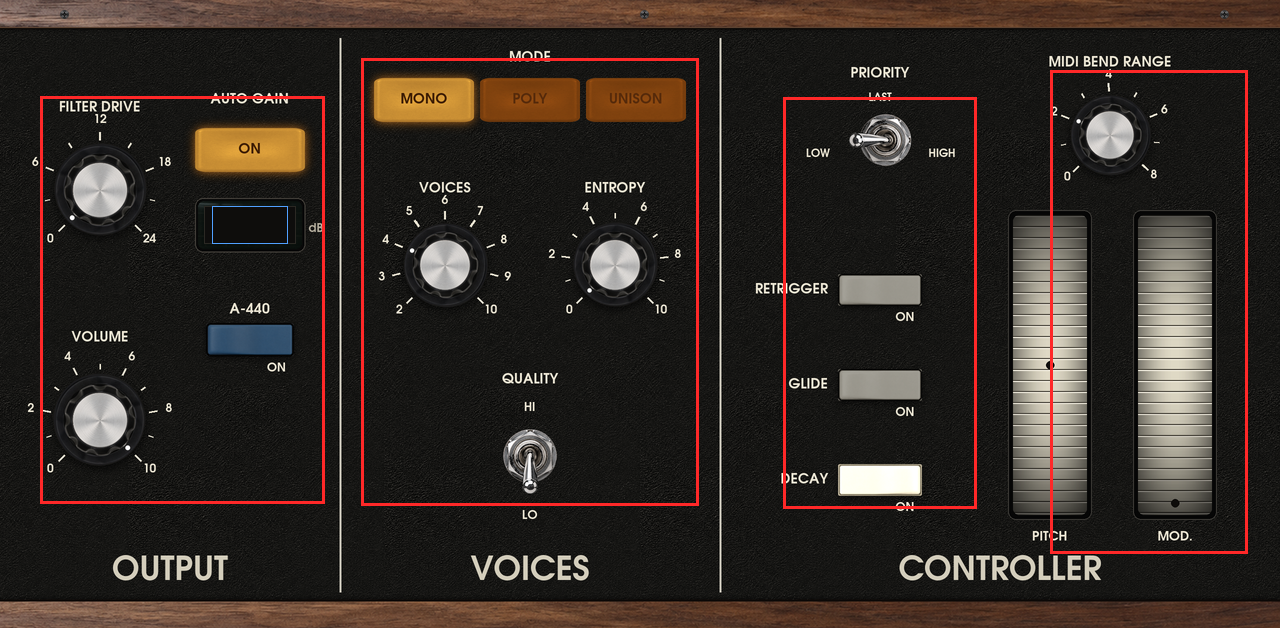
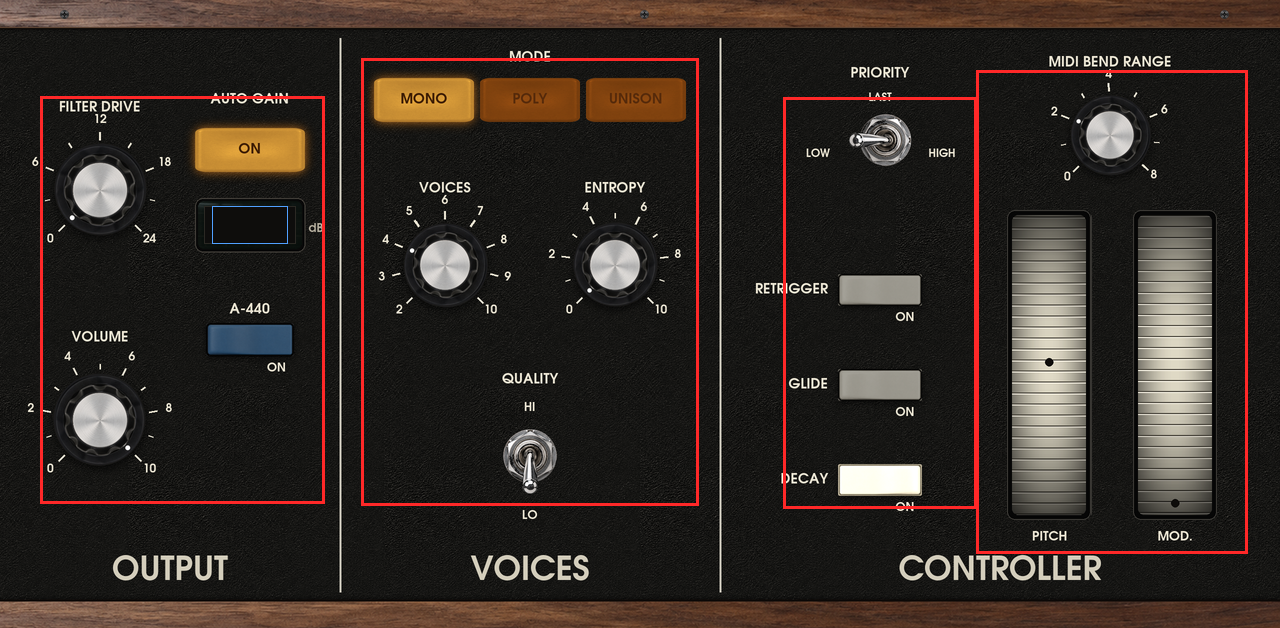
QUALITY HI by default on Gen2, presets leave QUALITY alone, a working pitch wheel
- arm64 builds start a new instance in HI (arm32 stays LO: HI is 30-55 % of a Force core).
- Factory presets no longer carry quality; a user preset is applied without its quality. A project keeps its own.
- pitch_wheel (param 118, appended): the OUTPUT tab's painted PITCH wheel gets a control (the MOD wheel's strip),
  sent to the engine as MIDI pitch bend (BEND RANGE applies); in the CONTROLLER Q-Link block.
- Tests: presets keep QUALITY, the wheel bends a fifth at range 7 and back.

Claude-Session: https://claude.ai/code/session_01CpoP2t6TVex9TxHmjqFgb6

Changed region(s): [[0.7812, 0.3328, 0.875, 0.8471], [0.75, 0.0908, 0.8125, 0.121], [0.7812, 0.8774, 0.8125, 0.9076]]

diff --git a/src/presets_gen.h b/src/presets_gen.h
@@ -2,24 +2,24 @@
 #pragma once
 struct FactoryPreset { const char *name, *state; };
 static const FactoryPreset g_factory[] = {
-    {"Felt Bass", "quality=0;mode=0;voices=4;entropy=0;tune=0;glide=0;mod_mix=0;osc_mod=0;osc3_control=1;osc1_range=2;osc1_waveform=2;osc2_range=2;osc2_frequency=0.09996;osc2_waveform=2;osc3_range=3;osc3_frequency=0;osc3_waveform=2;osc1_on=1;osc1_volume=8;ext_on=0;ext_volume=5;osc2_on=1;osc2_volume=8;noise_on=0;noise_volume=8;noise_type=0;osc3_on=0;osc3_volume=8;filter_mode=0;filter_mod=0;keyboard_control_1=1;keyboard_control_2=0;cutoff=-2.0;emphasis=3.5;contour_amount=3.5;filter_attack=0;filter_decay=3.5;filter_sustain=2.5;loudness_attack=0;loudness_decay=3.0;loudness_sustain=8;volume=10;main_output=1;a440=0;glide_on=0;decay_on=1;mod_wheel=0;midi_bend_range=2;feedback=0;drive=0;level=2.57;auto_gain=1;spread=0;inner=0;double=20;played_as=0;placement=0;bass_comp=0;patch=0;note_priority=0;retrigger=0"},
-    {"Saw Monolith", "quality=0;mode=0;voices=4;entropy=0;tune=0;glide=0;mod_mix=0;osc_mod=0;osc3_control=1;osc1_range=1;osc1_waveform=2;osc2_range=2;osc2_frequency=0.0312;osc2_waveform=2;osc3_range=2;osc3_frequency=-0.062646;osc3_waveform=2;osc1_on=1;osc1_volume=10;ext_on=0;ext_volume=8;osc2_on=1;osc2_volume=10;noise_on=0;noise_volume=8;noise_type=0;osc3_on=1;osc3_volume=10;filter_mode=0;filter_mod=1;keyboard_control_1=1;keyboard_control_2=1;cutoff=-2;emphasis=5;contour_amount=3.5;filter_attack=0;filter_decay=2.7;filter_sustain=0;loudness_attack=0;loudness_decay=4;loudness_sustain=5;volume=10;main_output=1;a440=0;glide_on=0;decay_on=1;mod_wheel=0.15;midi_bend_range=2;feedback=0;drive=0;level=2.41;auto_gain=1;spread=0;inner=0;double=20;played_as=0;placement=0;bass_comp=0;patch=0;note_priority=0;retrigger=0"},
-    {"Feedback Funk", "quality=0;mode=0;voices=4;entropy=0;tune=0;glide=1;mod_mix=10;osc_mod=1;osc3_control=1;osc1_range=5;osc1_waveform=5;osc2_range=2;osc2_frequency=0.0312;osc2_waveform=5;osc3_range=2;osc3_frequency=-0.062646;osc3_waveform=2;osc1_on=1;osc1_volume=5;ext_on=1;ext_volume=4.2;osc2_on=1;osc2_volume=9;noise_on=0;noise_volume=8;noise_type=0;osc3_on=1;osc3_volume=10;filter_mode=0;filter_mod=1;keyboard_control_1=0;keyboard_control_2=1;cutoff=-4;emphasis=7;contour_amount=6;filter_attack=0;filter_decay=2;filter_sustain=4;loudness_attack=0;loudness_decay=5;loudness_sustain=10;volume=8.711;main_output=1;a440=0;glide_on=1;decay_on=0;mod_wheel=0;midi_bend_range=2;feedback=5;drive=0;level=0;auto_gain=1;spread=0;inner=0;double=20;played_as=0;placement=0;bass_comp=0;patch=1;note_priority=0;retrigger=0"},
-    {"Tenor Pluck", "quality=0;mode=0;voices=4;entropy=0;tune=0;glide=0;mod_mix=0;osc_mod=0;osc3_control=0;osc1_range=2;osc1_waveform=1;osc2_range=3;osc2_frequency=0;osc2_waveform=2;osc3_range=0;osc3_frequency=-7;osc3_waveform=0;osc1_on=1;osc1_volume=10;ext_on=0;ext_volume=8;osc2_on=0;osc2_volume=10;noise_on=0;noise_volume=8;noise_type=0;osc3_on=0;osc3_volume=10;filter_mode=0;filter_mod=1;keyboard_control_1=1;keyboard_control_2=0;cutoff=-3;emphasis=4;contour_amount=4;filter_attack=0;filter_decay=2.7;filter_sustain=4;loudness_attack=0;loudness_decay=4.6;loudness_sustain=0;volume=10;main_output=1;a440=0;glide_on=0;decay_on=1;mod_wheel=0.1;midi_bend_range=2;feedback=0;drive=3;level=12;auto_gain=0;spread=0;inner=0;double=0;played_as=0;placement=0;bass_comp=0;patch=0;note_priority=1;retrigger=1"},
-    {"Singing Drift", "quality=0;mode=0;voices=2;entropy=24.8161;tune=0;glide=5;mod_mix=0;osc_mod=0;osc3_control=1;osc1_range=2;osc1_waveform=3;osc2_range=5;osc2_frequency=0;osc2_waveform=3;osc3_range=2;osc3_frequency=-0.1436;osc3_waveform=3;osc1_on=1;osc1_volume=2;ext_on=0;ext_volume=8;osc2_on=1;osc2_volume=8;noise_on=0;noise_volume=8;noise_type=0;osc3_on=1;osc3_volume=2;filter_mode=0;filter_mod=0;keyboard_control_1=1;keyboard_control_2=1;cutoff=-1;emphasis=6;contour_amount=3;filter_attack=0;filter_decay=5.1;filter_sustain=0;loudness_attack=0;loudness_decay=3.3;loudness_sustain=10;volume=9.105;main_output=1;a440=0;glide_on=1;decay_on=1;mod_wheel=0;midi_bend_range=2;feedback=0;drive=7.1266;level=0;auto_gain=1;spread=31.8587;inner=0;double=0;played_as=1;placement=0;bass_comp=0;patch=0;note_priority=0;retrigger=0"},
-    {"Horn Bloom", "quality=0;mode=1;voices=10;entropy=24.9598;tune=0;glide=6;mod_mix=0;osc_mod=0;osc3_control=0;osc1_range=3;osc1_waveform=2;osc2_range=3;osc2_frequency=0.05;osc2_waveform=2;osc3_range=0;osc3_frequency=4;osc3_waveform=0;osc1_on=1;osc1_volume=8;ext_on=0;ext_volume=8;osc2_on=0;osc2_volume=6;noise_on=0;noise_volume=8;noise_type=0;osc3_on=0;osc3_volume=8;filter_mode=0;filter_mod=1;keyboard_control_1=0;keyboard_control_2=1;cutoff=-5;emphasis=0;contour_amount=6;filter_attack=4;filter_decay=3.3;filter_sustain=9;loudness_attack=2.4;loudness_decay=6;loudness_sustain=7;volume=7.248;main_output=1;a440=0;glide_on=1;decay_on=1;mod_wheel=0;midi_bend_range=2;feedback=0;drive=15.6539;level=0;auto_gain=1;spread=100;inner=0;double=16.9238;played_as=1;placement=0;bass_comp=0;patch=0;note_priority=0;retrigger=0"},
-    {"Brass Choir", "quality=0;mode=1;voices=8;entropy=40;tune=0;glide=0;mod_mix=0;osc_mod=0;osc3_control=1;osc1_range=3;osc1_waveform=2;osc2_range=3;osc2_frequency=0.0312;osc2_waveform=2;osc3_range=3;osc3_frequency=-0.0626;osc3_waveform=2;osc1_on=1;osc1_volume=5;ext_on=0;ext_volume=8;osc2_on=1;osc2_volume=7;noise_on=0;noise_volume=8;noise_type=0;osc3_on=1;osc3_volume=9;filter_mode=0;filter_mod=0;keyboard_control_1=1;keyboard_control_2=0;cutoff=-2.8859;emphasis=0;contour_amount=4;filter_attack=3.3;filter_decay=3.3;filter_sustain=10;loudness_attack=2;loudness_decay=3.3;loudness_sustain=10;volume=6.585;main_output=1;a440=0;glide_on=0;decay_on=1;mod_wheel=0;midi_bend_range=2;feedback=0;drive=0;level=0;auto_gain=1;spread=50;inner=0;double=12.1875;played_as=1;placement=0;bass_comp=0;patch=0;note_priority=0;retrigger=0"},
-    {"Smoke Flute", "quality=0;mode=2;voices=2;entropy=29.9105;tune=0;glide=0;mod_mix=0;osc_mod=0;osc3_control=0;osc1_range=4;osc1_waveform=0;osc2_range=3;osc2_frequency=0;osc2_waveform=0;osc3_range=0;osc3_frequency=4;osc3_waveform=0;osc1_on=1;osc1_volume=5;ext_on=0;ext_volume=8;osc2_on=0;osc2_volume=8;noise_on=1;noise_volume=0.3;noise_type=0;osc3_on=0;osc3_volume=8;filter_mode=0;filter_mod=1;keyboard_control_1=0;keyboard_control_2=1;cutoff=-1;emphasis=4;contour_amount=2;filter_attack=2;filter_decay=2.4;filter_sustain=2;loudness_attack=3.3;loudness_decay=2.4;loudness_sustain=6.5;volume=10;main_output=1;a440=0;glide_on=0;decay_on=1;mod_wheel=0.4;midi_bend_range=2;feedback=0;drive=9.909;level=6.85;auto_gain=1;spread=50.096;inner=0;double=6.8245;played_as=1;placement=0;bass_comp=0;patch=0;note_priority=1;retrigger=0"},
-    {"Bright Xylo", "quality=0;mode=0;voices=8;entropy=20;tune=0;glide=0;mod_mix=0;osc_mod=0;osc3_control=1;osc1_range=4;osc1_waveform=0;osc2_range=2;osc2_frequency=0;osc2_waveform=0;osc3_range=2;osc3_frequency=0;osc3_waveform=0;osc1_on=1;osc1_volume=8;ext_on=0;ext_volume=8;osc2_on=0;osc2_volume=8;noise_on=0;noise_volume=8;noise_type=0;osc3_on=0;osc3_volume=8;filter_mode=0;filter_mod=0;keyboard_control_1=1;keyboard_control_2=0;cutoff=-4;emphasis=4;contour_amount=7;filter_attack=0.6;filter_decay=2;filter_sustain=0;loudness_attack=0.6;loudness_decay=4;loudness_sustain=0;volume=10;main_output=1;a440=0;glide_on=0;decay_on=1;mod_wheel=0;midi_bend_range=2;feedback=0;drive=0;level=5.71;auto_gain=1;spread=100;inner=0;double=0;played_as=0;placement=0;bass_comp=0;patch=0;note_priority=1;retrigger=1"},
-    {"Wide Bow", "quality=0;mode=0;voices=4;entropy=51.0091;tune=0;glide=5;mod_mix=0;osc_mod=1;osc3_control=0;osc1_range=2;osc1_waveform=0;osc2_range=2;osc2_frequency=0.0312;osc2_waveform=2;osc3_range=0;osc3_frequency=3;osc3_waveform=0;osc1_on=1;osc1_volume=3;ext_on=0;ext_volume=8;osc2_on=1;osc2_volume=6;noise_on=0;noise_volume=8;noise_type=0;osc3_on=0;osc3_volume=8;filter_mode=0;filter_mod=0;keyboard_control_1=1;keyboard_control_2=0;cutoff=0;emphasis=0;contour_amount=3;filter_attack=2;filter_decay=5.1;filter_sustain=7;loudness_attack=4;loudness_decay=6;loudness_sustain=7;volume=9.456;main_output=1;a440=0;glide_on=0;decay_on=0;mod_wheel=0.1;midi_bend_range=2;feedback=0;drive=0;level=0;auto_gain=1;spread=40.7015;inner=0;double=4.9756;played_as=1;placement=0;bass_comp=0;patch=0;note_priority=1;retrigger=0"},
-    {"Driven Kick", "quality=0;mode=0;voices=4;entropy=0;tune=0;glide=0;mod_mix=0;osc_mod=0;osc3_control=1;osc1_range=1;osc1_waveform=0;osc2_range=3;osc2_frequency=0;osc2_waveform=2;osc3_range=0;osc3_frequency=0;osc3_waveform=2;osc1_on=1;osc1_volume=10;ext_on=0;ext_volume=8;osc2_on=1;osc2_volume=4.1615;noise_on=0;noise_volume=8;noise_type=0;osc3_on=0;osc3_volume=0;filter_mode=0;filter_mod=0;keyboard_control_1=1;keyboard_control_2=0;cutoff=-3.604;emphasis=9.6;contour_amount=3;filter_attack=0;filter_decay=0.2;filter_sustain=0;loudness_attack=0;loudness_decay=2.8;loudness_sustain=0;volume=10;main_output=1;a440=0;glide_on=0;decay_on=1;mod_wheel=0;midi_bend_range=2;feedback=0;drive=24;level=11.32;auto_gain=1;spread=0;inner=0;double=0;played_as=0;placement=0;bass_comp=0;patch=0;note_priority=1;retrigger=1"},
-    {"Split Snare", "quality=0;mode=0;voices=4;entropy=0;tune=0;glide=0;mod_mix=0;osc_mod=0;osc3_control=1;osc1_range=3;osc1_waveform=0;osc2_range=3;osc2_frequency=0;osc2_waveform=2;osc3_range=3;osc3_frequency=0;osc3_waveform=2;osc1_on=1;osc1_volume=7;ext_on=0;ext_volume=8;osc2_on=0;osc2_volume=8;noise_on=1;noise_volume=10;noise_type=0;osc3_on=0;osc3_volume=8;filter_mode=0;filter_mod=0;keyboard_control_1=1;keyboard_control_2=0;cutoff=1.5;emphasis=2;contour_amount=3;filter_attack=0;filter_decay=1.5;filter_sustain=0;loudness_attack=0;loudness_decay=2.6;loudness_sustain=0;volume=10;main_output=1;a440=0;glide_on=0;decay_on=1;mod_wheel=0;midi_bend_range=2;feedback=0;drive=0;level=1.24;auto_gain=1;spread=20.3809;inner=0;double=20.0602;played_as=1;placement=0;bass_comp=0;patch=0;note_priority=1;retrigger=1"},
-    {"Tight Hat", "quality=0;mode=0;voices=4;entropy=0;tune=0;glide=0;mod_mix=0;osc_mod=0;osc3_control=1;osc1_range=3;osc1_waveform=2;osc2_range=3;osc2_frequency=0;osc2_waveform=2;osc3_range=3;osc3_frequency=0;osc3_waveform=2;osc1_on=0;osc1_volume=8;ext_on=0;ext_volume=8;osc2_on=0;osc2_volume=8;noise_on=1;noise_volume=10;noise_type=0;osc3_on=0;osc3_volume=8;filter_mode=0;filter_mod=0;keyboard_control_1=1;keyboard_control_2=0;cutoff=5;emphasis=0;contour_amount=0;filter_attack=0;filter_decay=4;filter_sustain=5;loudness_attack=0;loudness_decay=0.9;loudness_sustain=0;volume=10;main_output=1;a440=0;glide_on=0;decay_on=1;mod_wheel=0;midi_bend_range=2;feedback=0;drive=0;level=8.19;auto_gain=1;spread=0;inner=0;double=0;played_as=0;placement=0;bass_comp=0;patch=0;note_priority=1;retrigger=1"},
-    {"Loose Hat", "quality=0;mode=0;voices=4;entropy=0;tune=0;glide=0;mod_mix=0;osc_mod=0;osc3_control=1;osc1_range=3;osc1_waveform=2;osc2_range=3;osc2_frequency=0;osc2_waveform=2;osc3_range=3;osc3_frequency=0;osc3_waveform=2;osc1_on=0;osc1_volume=8;ext_on=0;ext_volume=8;osc2_on=0;osc2_volume=8;noise_on=1;noise_volume=10;noise_type=0;osc3_on=0;osc3_volume=8;filter_mode=0;filter_mod=0;keyboard_control_1=1;keyboard_control_2=0;cutoff=5;emphasis=0;contour_amount=0;filter_attack=0;filter_decay=4;filter_sustain=5;loudness_attack=0;loudness_decay=2.3;loudness_sustain=0;volume=10;main_output=1;a440=0;glide_on=0;decay_on=1;mod_wheel=0;midi_bend_range=2;feedback=0;drive=0;level=3.97;auto_gain=1;spread=0;inner=0;double=0;played_as=0;placement=0;bass_comp=0;patch=0;note_priority=1;retrigger=1"},
-    {"Wide Crash", "quality=0;mode=0;voices=4;entropy=0;tune=0;glide=0;mod_mix=0;osc_mod=0;osc3_control=1;osc1_range=3;osc1_waveform=2;osc2_range=3;osc2_frequency=0;osc2_waveform=2;osc3_range=3;osc3_frequency=0;osc3_waveform=2;osc1_on=0;osc1_volume=8;ext_on=0;ext_volume=8;osc2_on=0;osc2_volume=8;noise_on=1;noise_volume=10;noise_type=0;osc3_on=0;osc3_volume=8;filter_mode=0;filter_mod=0;keyboard_control_1=1;keyboard_control_2=0;cutoff=5;emphasis=0;contour_amount=0;filter_attack=0;filter_decay=4;filter_sustain=5;loudness_attack=0;loudness_decay=6.2;loudness_sustain=0;volume=9.809;main_output=1;a440=0;glide_on=0;decay_on=1;mod_wheel=0;midi_bend_range=2;feedback=0;drive=0;level=0;auto_gain=1;spread=19.9349;inner=0;double=7.9118;played_as=1;placement=0;bass_comp=0;patch=0;note_priority=1;retrigger=1"},
-    {"Swarm Riser", "quality=0;mode=2;voices=4;entropy=100;tune=0;glide=0;mod_mix=0;osc_mod=0;osc3_control=1;osc1_range=3;osc1_waveform=2;osc2_range=3;osc2_frequency=0;osc2_waveform=2;osc3_range=3;osc3_frequency=0;osc3_waveform=2;osc1_on=0;osc1_volume=8;ext_on=0;ext_volume=8;osc2_on=0;osc2_volume=8;noise_on=1;noise_volume=10;noise_type=1;osc3_on=0;osc3_volume=8;filter_mode=0;filter_mod=0;keyboard_control_1=0;keyboard_control_2=0;cutoff=-3.5;emphasis=7;contour_amount=10;filter_attack=10;filter_decay=5;filter_sustain=10;loudness_attack=6;loudness_decay=4;loudness_sustain=10;volume=10;main_output=1;a440=0;glide_on=0;decay_on=0;mod_wheel=0;midi_bend_range=2;feedback=0;drive=0;level=4.65;auto_gain=1;spread=74.9756;inner=0;double=68.7581;played_as=1;placement=0;bass_comp=0;patch=0;note_priority=0;retrigger=0"},
-    {"Warp Field", "quality=0;mode=1;voices=8;entropy=85;tune=0;glide=0;mod_mix=0;osc_mod=1;osc3_control=0;osc1_range=3;osc1_waveform=2;osc2_range=3;osc2_frequency=0.1;osc2_waveform=2;osc3_range=0;osc3_frequency=-1.9999;osc3_waveform=0;osc1_on=1;osc1_volume=8;ext_on=0;ext_volume=8;osc2_on=1;osc2_volume=7;noise_on=0;noise_volume=8;noise_type=0;osc3_on=0;osc3_volume=8;filter_mode=0;filter_mod=0;keyboard_control_1=1;keyboard_control_2=0;cutoff=-1.5;emphasis=2;contour_amount=2;filter_attack=5;filter_decay=6;filter_sustain=7;loudness_attack=5;loudness_decay=6;loudness_sustain=10;volume=7.141;main_output=1;a440=0;glide_on=0;decay_on=1;mod_wheel=0.03;midi_bend_range=2;feedback=0;drive=0;level=0;auto_gain=1;spread=100;inner=29.8486;double=10.9554;played_as=1;placement=0;bass_comp=0;patch=0;note_priority=0;retrigger=0"},
-    {"White Lotus", "quality=0;mode=0;voices=4;entropy=0;tune=0;glide=0;mod_mix=0;osc_mod=0;osc3_control=0;osc1_range=3;osc1_waveform=5;osc2_range=3;osc2_frequency=0;osc2_waveform=2;osc3_range=0;osc3_frequency=7.47627;osc3_waveform=0;osc1_on=1;osc1_volume=10;ext_on=0;ext_volume=8;osc2_on=0;osc2_volume=8;noise_on=0;noise_volume=8;noise_type=0;osc3_on=0;osc3_volume=8;filter_mode=0;filter_mod=1;keyboard_control_1=1;keyboard_control_2=1;cutoff=-2.14;emphasis=7;contour_amount=0;filter_attack=0;filter_decay=3;filter_sustain=10;loudness_attack=0.5;loudness_decay=3.5;loudness_sustain=8.5;volume=9.78;main_output=1;a440=0;glide_on=0;decay_on=1;mod_wheel=0.17;midi_bend_range=2;feedback=0;drive=0;level=0;auto_gain=1;spread=0;inner=0;double=20;played_as=0;placement=0;bass_comp=0;patch=0;note_priority=0;retrigger=0"},
-    {"Cycle of Fifths", "quality=0;mode=2;voices=4;entropy=30.3158;tune=0;glide=1.5747;mod_mix=0;osc_mod=0;osc3_control=0;osc1_range=3;osc1_waveform=2;osc2_range=3;osc2_frequency=6.5096;osc2_waveform=2;osc3_range=0;osc3_frequency=0;osc3_waveform=1;osc1_on=1;osc1_volume=8;ext_on=0;ext_volume=5;osc2_on=1;osc2_volume=8;noise_on=0;noise_volume=4.3438;noise_type=0;osc3_on=0;osc3_volume=10;filter_mode=0;filter_mod=0;keyboard_control_1=1;keyboard_control_2=0;cutoff=0;emphasis=0;contour_amount=5;filter_attack=2.4484;filter_decay=5.9481;filter_sustain=5;loudness_attack=0;loudness_decay=4;loudness_sustain=8;volume=8.044;main_output=1;a440=0;glide_on=1;decay_on=1;mod_wheel=0;midi_bend_range=2;feedback=0;drive=0;level=0;auto_gain=1;spread=100;inner=20.6624;double=30.0016;played_as=1;placement=0;bass_comp=0;patch=0;note_priority=1;retrigger=0"},
+    {"Felt Bass", "mode=0;voices=4;entropy=0;tune=0;glide=0;mod_mix=0;osc_mod=0;osc3_control=1;osc1_range=2;osc1_waveform=2;osc2_range=2;osc2_frequency=0.09996;osc2_waveform=2;osc3_range=3;osc3_frequency=0;osc3_waveform=2;osc1_on=1;osc1_volume=8;ext_on=0;ext_volume=5;osc2_on=1;osc2_volume=8;noise_on=0;noise_volume=8;noise_type=0;osc3_on=0;osc3_volume=8;filter_mode=0;filter_mod=0;keyboard_control_1=1;keyboard_control_2=0;cutoff=-2.0;emphasis=3.5;contour_amount=3.5;filter_attack=0;filter_decay=3.5;filter_sustain=2.5;loudness_attack=0;loudness_decay=3.0;loudness_sustain=8;volume=10;main_output=1;a440=0;glide_on=0;decay_on=1;mod_wheel=0;midi_bend_range=2;feedback=0;drive=0;level=2.57;auto_gain=1;spread=0;inner=0;double=20;played_as=0;placement=0;bass_comp=0;patch=0;note_priority=0;retrigger=0"},
+    {"Saw Monolith", "mode=0;voices=4;entropy=0;tune=0;glide=0;mod_mix=0;osc_mod=0;osc3_control=1;osc1_range=1;osc1_waveform=2;osc2_range=2;osc2_frequency=0.0312;osc2_waveform=2;osc3_range=2;osc3_frequency=-0.062646;osc3_waveform=2;osc1_on=1;osc1_volume=10;ext_on=0;ext_volume=8;osc2_on=1;osc2_volume=10;noise_on=0;noise_volume=8;noise_type=0;osc3_on=1;osc3_volume=10;filter_mode=0;filter_mod=1;keyboard_control_1=1;keyboard_control_2=1;cutoff=-2;emphasis=5;contour_amount=3.5;filter_attack=0;filter_decay=2.7;filter_sustain=0;loudness_attack=0;loudness_decay=4;loudness_sustain=5;volume=10;main_output=1;a440=0;glide_on=0;decay_on=1;mod_wheel=0.15;midi_bend_range=2;feedback=0;drive=0;level=2.41;auto_gain=1;spread=0;inner=0;double=20;played_as=0;placement=0;bass_comp=0;patch=0;note_priority=0;retrigger=0"},
+    {"Feedback Funk", "mode=0;voices=4;entropy=0;tune=0;glide=1;mod_mix=10;osc_mod=1;osc3_control=1;osc1_range=5;osc1_waveform=5;osc2_range=2;osc2_frequency=0.0312;osc2_waveform=5;osc3_range=2;osc3_frequency=-0.062646;osc3_waveform=2;osc1_on=1;osc1_volume=5;ext_on=1;ext_volume=4.2;osc2_on=1;osc2_volume=9;noise_on=0;noise_volume=8;noise_type=0;osc3_on=1;osc3_volume=10;filter_mode=0;filter_mod=1;keyboard_control_1=0;keyboard_control_2=1;cutoff=-4;emphasis=7;contour_amount=6;filter_attack=0;filter_decay=2;filter_sustain=4;loudness_attack=0;loudness_decay=5;loudness_sustain=10;volume=8.711;main_output=1;a440=0;glide_on=1;decay_on=0;mod_wheel=0;midi_bend_range=2;feedback=5;drive=0;level=0;auto_gain=1;spread=0;inner=0;double=20;played_as=0;placement=0;bass_comp=0;patch=1;note_priority=0;retrigger=0"},
+    {"Tenor Pluck", "mode=0;voices=4;entropy=0;tune=0;glide=0;mod_mix=0;osc_mod=0;osc3_control=0;osc1_range=2;osc1_waveform=1;osc2_range=3;osc2_frequency=0;osc2_waveform=2;osc3_range=0;osc3_frequency=-7;osc3_waveform=0;osc1_on=1;osc1_volume=10;ext_on=0;ext_volume=8;osc2_on=0;osc2_volume=10;noise_on=0;noise_volume=8;noise_type=0;osc3_on=0;osc3_volume=10;filter_mode=0;filter_mod=1;keyboard_control_1=1;keyboard_control_2=0;cutoff=-3;emphasis=4;contour_amount=4;filter_attack=0;filter_decay=2.7;filter_sustain=4;loudness_attack=0;loudness_decay=4.6;loudness_sustain=0;volume=10;main_output=1;a440=0;glide_on=0;decay_on=1;mod_wheel=0.1;midi_bend_range=2;feedback=0;drive=3;level=12;auto_gain=0;spread=0;inner=0;double=0;played_as=0;placement=0;bass_comp=0;patch=0;note_priority=1;retrigger=1"},
+    {"Singing Drift", "mode=0;voices=2;entropy=24.8161;tune=0;glide=5;mod_mix=0;osc_mod=0;osc3_control=1;osc1_range=2;osc1_waveform=3;osc2_range=5;osc2_frequency=0;osc2_waveform=3;osc3_range=2;osc3_frequency=-0.1436;osc3_waveform=3;osc1_on=1;osc1_volume=2;ext_on=0;ext_volume=8;osc2_on=1;osc2_volume=8;noise_on=0;noise_volume=8;noise_type=0;osc3_on=1;osc3_volume=2;filter_mode=0;filter_mod=0;keyboard_control_1=1;keyboard_control_2=1;cutoff=-1;emphasis=6;contour_amount=3;filter_attack=0;filter_decay=5.1;filter_sustain=0;loudness_attack=0;loudness_decay=3.3;loudness_sustain=10;volume=9.105;main_output=1;a440=0;glide_on=1;decay_on=1;mod_wheel=0;midi_bend_range=2;feedback=0;drive=7.1266;level=0;auto_gain=1;spread=31.8587;inner=0;double=0;played_as=1;placement=0;bass_comp=0;patch=0;note_priority=0;retrigger=0"},
+    {"Horn Bloom", "mode=1;voices=10;entropy=24.9598;tune=0;glide=6;mod_mix=0;osc_mod=0;osc3_control=0;osc1_range=3;osc1_waveform=2;osc2_range=3;osc2_frequency=0.05;osc2_waveform=2;osc3_range=0;osc3_frequency=4;osc3_waveform=0;osc1_on=1;osc1_volume=8;ext_on=0;ext_volume=8;osc2_on=0;osc2_volume=6;noise_on=0;noise_volume=8;noise_type=0;osc3_on=0;osc3_volume=8;filter_mode=0;filter_mod=1;keyboard_control_1=0;keyboard_control_2=1;cutoff=-5;emphasis=0;contour_amount=6;filter_attack=4;filter_decay=3.3;filter_sustain=9;loudness_attack=2.4;loudness_decay=6;loudness_sustain=7;volume=7.248;main_output=1;a440=0;glide_on=1;decay_on=1;mod_wheel=0;midi_bend_range=2;feedback=0;drive=15.6539;level=0;auto_gain=1;spread=100;inner=0;double=16.9238;played_as=1;placement=0;bass_comp=0;patch=0;note_priority=0;retrigger=0"},
+    {"Brass Choir", "mode=1;voices=8;entropy=40;tune=0;glide=0;mod_mix=0;osc_mod=0;osc3_control=1;osc1_range=3;osc1_waveform=2;osc2_range=3;osc2_frequency=0.0312;osc2_waveform=2;osc3_range=3;osc3_frequency=-0.0626;osc3_waveform=2;osc1_on=1;osc1_volume=5;ext_on=0;ext_volume=8;osc2_on=1;osc2_volume=7;noise_on=0;noise_volume=8;noise_type=0;osc3_on=1;osc3_volume=9;filter_mode=0;filter_mod=0;keyboard_control_1=1;keyboard_control_2=0;cutoff=-2.8859;emphasis=0;contour_amount=4;filter_attack=3.3;filter_decay=3.3;filter_sustain=10;loudness_attack=2;loudness_decay=3.3;loudness_sustain=10;volume=6.585;main_output=1;a440=0;glide_on=0;decay_on=1;mod_wheel=0;midi_bend_range=2;feedback=0;drive=0;level=0;auto_gain=1;spread=50;inner=0;double=12.1875;played_as=1;placement=0;bass_comp=0;patch=0;note_priority=0;retrigger=0"},
+    {"Smoke Flute", "mode=2;voices=2;entropy=29.9105;tune=0;glide=0;mod_mix=0;osc_mod=0;osc3_control=0;osc1_range=4;osc1_waveform=0;osc2_range=3;osc2_frequency=0;osc2_waveform=0;osc3_range=0;osc3_frequency=4;osc3_waveform=0;osc1_on=1;osc1_volume=5;ext_on=0;ext_volume=8;osc2_on=0;osc2_volume=8;noise_on=1;noise_volume=0.3;noise_type=0;osc3_on=0;osc3_volume=8;filter_mode=0;filter_mod=1;keyboard_control_1=0;keyboard_control_2=1;cutoff=-1;emphasis=4;contour_amount=2;filter_attack=2;filter_decay=2.4;filter_sustain=2;loudness_attack=3.3;loudness_decay=2.4;loudness_sustain=6.5;volume=10;main_output=1;a440=0;glide_on=0;decay_on=1;mod_wheel=0.4;midi_bend_range=2;feedback=0;drive=9.909;level=6.85;auto_gain=1;spread=50.096;inner=0;double=6.8245;played_as=1;placement=0;bass_comp=0;patch=0;note_priority=1;retrigger=0"},
+    {"Bright Xylo", "mode=0;voices=8;entropy=20;tune=0;glide=0;mod_mix=0;osc_mod=0;osc3_control=1;osc1_range=4;osc1_waveform=0;osc2_range=2;osc2_frequency=0;osc2_waveform=0;osc3_range=2;osc3_frequency=0;osc3_waveform=0;osc1_on=1;osc1_volume=8;ext_on=0;ext_volume=8;osc2_on=0;osc2_volume=8;noise_on=0;noise_volume=8;noise_type=0;osc3_on=0;osc3_volume=8;filter_mode=0;filter_mod=0;keyboard_control_1=1;keyboard_control_2=0;cutoff=-4;emphasis=4;contour_amount=7;filter_attack=0.6;filter_decay=2;filter_sustain=0;loudness_attack=0.6;loudness_decay=4;loudness_sustain=0;volume=10;main_output=1;a440=0;glide_on=0;decay_on=1;mod_wheel=0;midi_bend_range=2;feedback=0;drive=0;level=5.71;auto_gain=1;spread=100;inner=0;double=0;played_as=0;placement=0;bass_comp=0;patch=0;note_priority=1;retrigger=1"},
+    {"Wide Bow", "mode=0;voices=4;entropy=51.0091;tune=0;glide=5;mod_mix=0;osc_mod=1;osc3_control=0;osc1_range=2;osc1_waveform=0;osc2_range=2;osc2_frequency=0.0312;osc2_waveform=2;osc3_range=0;osc3_frequency=3;osc3_waveform=0;osc1_on=1;osc1_volume=3;ext_on=0;ext_volume=8;osc2_on=1;osc2_volume=6;noise_on=0;noise_volume=8;noise_type=0;osc3_on=0;osc3_volume=8;filter_mode=0;filter_mod=0;keyboard_control_1=1;keyboard_control_2=0;cutoff=0;emphasis=0;contour_amount=3;filter_attack=2;filter_decay=5.1;filter_sustain=7;loudness_attack=4;loudness_decay=6;loudness_sustain=7;volume=9.456;main_output=1;a440=0;glide_on=0;decay_on=0;mod_wheel=0.1;midi_bend_range=2;feedback=0;drive=0;level=0;auto_gain=1;spread=40.7015;inner=0;double=4.9756;played_as=1;placement=0;bass_comp=0;patch=0;note_priority=1;retrigger=0"},
+    {"Driven Kick", "mode=0;voices=4;entropy=0;tune=0;glide=0;mod_mix=0;osc_mod=0;osc3_control=1;osc1_range=1;osc1_waveform=0;osc2_range=3;osc2_frequency=0;osc2_waveform=2;osc3_range=0;osc3_frequency=0;osc3_waveform=2;osc1_on=1;osc1_volume=10;ext_on=0;ext_volume=8;osc2_on=1;osc2_volume=4.1615;noise_on=0;noise_volume=8;noise_type=0;osc3_on=0;osc3_volume=0;filter_mode=0;filter_mod=0;keyboard_control_1=1;keyboard_control_2=0;cutoff=-3.604;emphasis=9.6;contour_amount=3;filter_attack=0;filter_decay=0.2;filter_sustain=0;loudness_attack=0;loudness_decay=2.8;loudness_sustain=0;volume=10;main_output=1;a440=0;glide_on=0;decay_on=1;mod_wheel=0;midi_bend_range=2;feedback=0;drive=24;level=11.32;auto_gain=1;spread=0;inner=0;double=0;played_as=0;placement=0;bass_comp=0;patch=0;note_priority=1;retrigger=1"},
+    {"Split Snare", "mode=0;voices=4;entropy=0;tune=0;glide=0;mod_mix=0;osc_mod=0;osc3_control=1;osc1_range=3;osc1_waveform=0;osc2_range=3;osc2_frequency=0;osc2_waveform=2;osc3_range=3;osc3_frequency=0;osc3_waveform=2;osc1_on=1;osc1_volume=7;ext_on=0;ext_volume=8;osc2_on=0;osc2_volume=8;noise_on=1;noise_volume=10;noise_type=0;osc3_on=0;osc3_volume=8;filter_mode=0;filter_mod=0;keyboard_control_1=1;keyboard_control_2=0;cutoff=1.5;emphasis=2;contour_amount=3;filter_attack=0;filter_decay=1.5;filter_sustain=0;loudness_attack=0;loudness_decay=2.6;loudness_sustain=0;volume=10;main_output=1;a440=0;glide_on=0;decay_on=1;mod_wheel=0;midi_bend_range=2;feedback=0;drive=0;level=1.24;auto_gain=1;spread=20.3809;inner=0;double=20.0602;played_as=1;placement=0;bass_comp=0;patch=0;note_priority=1;retrigger=1"},
+    {"Tight Hat", "mode=0;voices=4;entropy=0;tune=0;glide=0;mod_mix=0;osc_mod=0;osc3_control=1;osc1_range=3;osc1_waveform=2;osc2_range=3;osc2_frequency=0;osc2_waveform=2;osc3_range=3;osc3_frequency=0;osc3_waveform=2;osc1_on=0;osc1_volume=8;ext_on=0;ext_volume=8;osc2_on=0;osc2_volume=8;noise_on=1;noise_volume=10;noise_type=0;osc3_on=0;osc3_volume=8;filter_mode=0;filter_mod=0;keyboard_control_1=1;keyboard_control_2=0;cutoff=5;emphasis=0;contour_amount=0;filter_attack=0;filter_decay=4;filter_sustain=5;loudness_attack=0;loudness_decay=0.9;loudness_sustain=0;volume=10;main_output=1;a440=0;glide_on=0;decay_on=1;mod_wheel=0;midi_bend_range=2;feedback=0;drive=0;level=8.19;auto_gain=1;spread=0;inner=0;double=0;played_as=0;placement=0;bass_comp=0;patch=0;note_priority=1;retrigger=1"},
+    {"Loose Hat", "mode=0;voices=4;entropy=0;tune=0;glide=0;mod_mix=0;osc_mod=0;osc3_control=1;osc1_range=3;osc1_waveform=2;osc2_range=3;osc2_frequency=0;osc2_waveform=2;osc3_range=3;osc3_frequency=0;osc3_waveform=2;osc1_on=0;osc1_volume=8;ext_on=0;ext_volume=8;osc2_on=0;osc2_volume=8;noise_on=1;noise_volume=10;noise_type=0;osc3_on=0;osc3_volume=8;filter_mode=0;filter_mod=0;keyboard_control_1=1;keyboard_control_2=0;cutoff=5;emphasis=0;contour_amount=0;filter_attack=0;filter_decay=4;filter_sustain=5;loudness_attack=0;loudness_decay=2.3;loudness_sustain=0;volume=10;main_output=1;a440=0;glide_on=0;decay_on=1;mod_wheel=0;midi_bend_range=2;feedback=0;drive=0;level=3.97;auto_gain=1;spread=0;inner=0;double=0;played_as=0;placement=0;bass_comp=0;patch=0;note_priority=1;retrigger=1"},
+    {"Wide Crash", "mode=0;voices=4;entropy=0;tune=0;glide=0;mod_mix=0;osc_mod=0;osc3_control=1;osc1_range=3;osc1_waveform=2;osc2_range=3;osc2_frequency=0;osc2_waveform=2;osc3_range=3;osc3_frequency=0;osc3_waveform=2;osc1_on=0;osc1_volume=8;ext_on=0;ext_volume=8;osc2_on=0;osc2_volume=8;noise_on=1;noise_volume=10;noise_type=0;osc3_on=0;osc3_volume=8;filter_mode=0;filter_mod=0;keyboard_control_1=1;keyboard_control_2=0;cutoff=5;emphasis=0;contour_amount=0;filter_attack=0;filter_decay=4;filter_sustain=5;loudness_attack=0;loudness_decay=6.2;loudness_sustain=0;volume=9.809;main_output=1;a440=0;glide_on=0;decay_on=1;mod_wheel=0;midi_bend_range=2;feedback=0;drive=0;level=0;auto_gain=1;spread=19.9349;inner=0;double=7.9118;played_as=1;placement=0;bass_comp=0;patch=0;note_priority=1;retrigger=1"},
+    {"Swarm Riser", "mode=2;voices=4;entropy=100;tune=0;glide=0;mod_mix=0;osc_mod=0;osc3_control=1;osc1_range=3;osc1_waveform=2;osc2_range=3;osc2_frequency=0;osc2_waveform=2;osc3_range=3;osc3_frequency=0;osc3_waveform=2;osc1_on=0;osc1_volume=8;ext_on=0;ext_volume=8;osc2_on=0;osc2_volume=8;noise_on=1;noise_volume=10;noise_type=1;osc3_on=0;osc3_volume=8;filter_mode=0;filter_mod=0;keyboard_control_1=0;keyboard_control_2=0;cutoff=-3.5;emphasis=7;contour_amount=10;filter_attack=10;filter_decay=5;filter_sustain=10;loudness_attack=6;loudness_decay=4;loudness_sustain=10;volume=10;main_output=1;a440=0;glide_on=0;decay_on=0;mod_wheel=0;midi_bend_range=2;feedback=0;drive=0;level=4.65;auto_gain=1;spread=74.9756;inner=0;double=68.7581;played_as=1;placement=0;bass_comp=0;patch=0;note_priority=0;retrigger=0"},
+    {"Warp Field", "mode=1;voices=8;entropy=85;tune=0;glide=0;mod_mix=0;osc_mod=1;osc3_control=0;osc1_range=3;osc1_waveform=2;osc2_range=3;osc2_frequency=0.1;osc2_waveform=2;osc3_range=0;osc3_frequency=-1.9999;osc3_waveform=0;osc1_on=1;osc1_volume=8;ext_on=0;ext_volume=8;osc2_on=1;osc2_volume=7;noise_on=0;noise_volume=8;noise_type=0;osc3_on=0;osc3_volume=8;filter_mode=0;filter_mod=0;keyboard_control_1=1;keyboard_control_2=0;cutoff=-1.5;emphasis=2;contour_amount=2;filter_attack=5;filter_decay=6;filter_sustain=7;loudness_attack=5;loudness_decay=6;loudness_sustain=10;volume=7.141;main_output=1;a440=0;glide_on=0;decay_on=1;mod_wheel=0.03;midi_bend_range=2;feedback=0;drive=0;level=0;auto_gain=1;spread=100;inner=29.8486;double=10.9554;played_as=1;placement=0;bass_comp=0;patch=0;note_priority=0;retrigger=0"},
+    {"White Lotus", "mode=0;voices=4;entropy=0;tune=0;glide=0;mod_mix=0;osc_mod=0;osc3_control=0;osc1_range=3;osc1_waveform=5;osc2_range=3;osc2_frequency=0;osc2_waveform=2;osc3_range=0;osc3_frequency=7.47627;osc3_waveform=0;osc1_on=1;osc1_volume=10;ext_on=0;ext_volume=8;osc2_on=0;osc2_volume=8;noise_on=0;noise_volume=8;noise_type=0;osc3_on=0;osc3_volume=8;filter_mode=0;filter_mod=1;keyboard_control_1=1;keyboard_control_2=1;cutoff=-2.14;emphasis=7;contour_amount=0;filter_attack=0;filter_decay=3;filter_sustain=10;loudness_attack=0.5;loudness_decay=3.5;loudness_sustain=8.5;volume=9.78;main_output=1;a440=0;glide_on=0;decay_on=1;mod_wheel=0.17;midi_bend_range=2;feedback=0;drive=0;level=0;auto_gain=1;spread=0;inner=0;double=20;played_as=0;placement=0;bass_comp=0;patch=0;note_priority=0;retrigger=0"},
+    {"Cycle of Fifths", "mode=2;voices=4;entropy=30.3158;tune=0;glide=1.5747;mod_mix=0;osc_mod=0;osc3_control=0;osc1_range=3;osc1_waveform=2;osc2_range=3;osc2_frequency=6.5096;osc2_waveform=2;osc3_range=0;osc3_frequency=0;osc3_waveform=1;osc1_on=1;osc1_volume=8;ext_on=0;ext_volume=5;osc2_on=1;osc2_volume=8;noise_on=0;noise_volume=4.3438;noise_type=0;osc3_on=0;osc3_volume=10;filter_mode=0;filter_mod=0;keyboard_control_1=1;keyboard_control_2=0;cutoff=0;emphasis=0;contour_amount=5;filter_attack=2.4484;filter_decay=5.9481;filter_sustain=5;loudness_attack=0;loudness_decay=4;loudness_sustain=8;volume=8.044;main_output=1;a440=0;glide_on=1;decay_on=1;mod_wheel=0;midi_bend_range=2;feedback=0;drive=0;level=0;auto_gain=1;spread=100;inner=20.6624;double=30.0016;played_as=1;placement=0;bass_comp=0;patch=0;note_priority=1;retrigger=0"},
 };
 static const int kFactory = 19;

diff --git a/tests/host_test.cpp b/tests/host_test.cpp
@@ -55,10 +55,13 @@ static int prog(AEffect* e) { return (int)e->dispatcher(e, effGetProgram, 0, 0, 
 static bool near(float a, float b) { return std::fabs(a - b) < 0.011f; }
 
 static double g_rms;
+static long g_cross;   // zero crossings of the left output in the last run()
 static void run(AEffect* e, int blocks, const std::vector<std::vector<uint8_t>>& midi = {}, int frames = 128)
 {
     float L[256], R[256], *out[2] = {L, R};
     double acc = 0; long n = 0;
+    g_cross = 0;
+    float prev = 0;
     for (int b = 0; b < blocks; b++)
     {
         if (b == 0 && !midi.empty())
@@ -78,7 +81,12 @@ static void run(AEffect* e, int blocks, const std::vector<std::vector<uint8_t>>&
             e->dispatcher(e, effProcessEvents, 0, 0, evs, 0);
         }
         e->processReplacing(e, nullptr, out, frames);
-        for (int i = 0; i < frames; i++) { acc += (double)L[i] * L[i] + (double)R[i] * R[i]; n += 2; }
+        for (int i = 0; i < frames; i++)
+        {
+            acc += (double)L[i] * L[i] + (double)R[i] * R[i]; n += 2;
+            if ((prev < 0) != (L[i] < 0)) g_cross++;
+            prev = L[i];
+        }
     }
     g_rms = n ? std::sqrt(acc / n) : 0;
 }
@@ -129,14 +137,14 @@ int main(int argc, char** argv)
     a->dispatcher(a, effGetEffectName, 0, 0, name, 0);
     CHECK(a->uniqueID == (VstInt32)M72_EXPECT_UID, "uid %08x", (unsigned)a->uniqueID);
     CHECK(!std::strcmp(name, M72_EXPECT_NAME), "name \"%s\"", name);
-    CHECK(a->numParams == 118, "118 params: the 72 of 1.0.1 + user presets and keyboard (%d)", a->numParams);
+    CHECK(a->numParams == 119, "119 params: the 72 of 1.0.1 + user presets, keyboard, pitch wheel (%d)", a->numParams);
     CHECK(a->dispatcher(a, effGetVendorVersion, 0, 0, nullptr, 0) == 2000, "version 2000");
     {
         int bad = 0, i = 0;
         std::ifstream f("vst/params.lock");
         std::string line;
         while (std::getline(f, line)) if (!line.empty() && (i >= kNumParams || line != g_pspecs[i++].key)) bad++;
-        CHECK(i == 118 && bad == 0, "order = vst/params.lock (%d keys, %d differ)", i, bad);
+        CHECK(i == 119 && bad == 0, "order = vst/params.lock (%d keys, %d differ)", i, bad);
         CHECK(QUAL == 0 && idx("retrigger") == 71 && kFavAdd == 72, "quality 0, retrigger 71 (the 1.0.1 table), then fav_add 72");
         char pn[64] = {0};
         a->dispatcher(a, effGetParamName, 0, 0, pn, 0);
@@ -230,6 +238,48 @@ int main(int argc, char** argv)
     CHECK(engi(a, "patch") == 1 && std::lround(plainOf(a, idx("patch"))) == 1, "Feedback Funk: PATCH on, the control follows");
     CHECK(g_updateDisplay > 0, "one display update for the new program (%d)", g_updateDisplay.load());
     CHECK(prog(a) == 2, "the PRESET menu is on it");
+
+    std::printf("== QUALITY is not part of a preset\n");
+    a->setParameter(a, QUAL, 1.0f);
+    std::this_thread::sleep_for(std::chrono::milliseconds(80));
+    settle(a);
+    a->dispatcher(a, effSetProgram, 0, 5, nullptr, 0);
+    settle(a);
+    CHECK(engi(a, "quality") == 1 && std::lround(plainOf(a, QUAL)) == 1, "a factory preset leaves QUALITY at HI");
+    a->dispatcher(a, effSetProgram, 0, 2, nullptr, 0);
+    settle(a);
+    a->setParameter(a, QUAL, 0.0f);
+    std::this_thread::sleep_for(std::chrono::milliseconds(80));
+    settle(a);
+    CHECK(engi(a, "quality") == 0, "back to LO");
+
+    std::printf("== pitch wheel\n");
+    {
+        const int PW = kPitchWheel, BR = idx("midi_bend_range");
+        CHECK(PW == 118 && near(plainOf(a, PW), 0.0f), "pitch_wheel is param 118, centred");
+        AEffect* w = open("W");
+        w->setParameter(w, idx("osc1_waveform"), 0.0f);       // one triangle, the filter open: crossings follow the pitch
+        w->setParameter(w, CUT, 1.0f);
+        w->setParameter(w, idx("entropy"), 0.0f);
+        w->setParameter(w, BR, norm(BR, 7.0f));               // a fifth up at full wheel
+        settle(w);
+        const std::string st = eng(w, "state");
+        run(w, 20, {{0x90, 45, 100}});
+        run(w, 400);
+        const long c0 = g_cross;
+        w->setParameter(w, PW, norm(PW, 1.0f));
+        run(w, 40);
+        run(w, 400);
+        const long c1 = g_cross;
+        CHECK(c1 > c0 * 1.3 && c1 < c0 * 1.7, "full wheel up raises the note a fifth (crossings %ld -> %ld)", c0, c1);
+        CHECK(eng(w, "state") == st, "the wheel is a performance control, not part of the sound");
+        w->setParameter(w, PW, norm(PW, 0.0f));
+        run(w, 40);
+        run(w, 400);
+        CHECK(std::labs(g_cross - c0) < c0 / 20, "back to centre: the note is back (%ld)", g_cross);
+        run(w, 2, {{0x80, 45, 0}});
+        close(w);
+    }
 
     std::printf("== state round trip\n");
     a->setParameter(a, CUT, norm(CUT, 2.5f));
@@ -341,6 +391,17 @@ int main(int argc, char** argv)
         a->dispatcher(a, effSetProgram, 0, slot, nullptr, 0);
         settle(a);
         CHECK(eng(a, "state") == saved && near(plainOf(a, CUT), 1.25f), "picking it restores it (CUTOFF %.2f)", plainOf(a, CUT));
+        a->setParameter(a, QUAL, 1.0f);
+        std::this_thread::sleep_for(std::chrono::milliseconds(80));
+        settle(a);
+        a->dispatcher(a, effSetProgram, 0, 10, nullptr, 0);
+        settle(a);
+        a->dispatcher(a, effSetProgram, 0, slot, nullptr, 0);
+        settle(a);
+        CHECK(engi(a, "quality") == 1, "a user preset (saved in LO) leaves QUALITY at HI");
+        a->setParameter(a, QUAL, 0.0f);
+        std::this_thread::sleep_for(std::chrono::milliseconds(80));
+        settle(a);
         AEffect* e2 = open("E (reads the presets file)");
         CHECK(m72_dbg_favs(e2) == n0 + 1 && progName(e2, slot) == progName(a, slot), "a new instance reads it from model72-presets.dat");
         close(e2);

diff --git a/src/Model72Plugin.cpp b/src/Model72Plugin.cpp
@@ -66,6 +66,27 @@ namespace {
 const int kChunk = 128;
 const int kStateMax = 4096;
 const double kEngineRate = 44100.0;
+// QUALITY for a new instance: HI on Gen2 (arm64, room for the circuit filter), LO on the Force / Gen1 (arm32: HI costs 30-55 % of a core).
+#if defined(__aarch64__)
+const int kDefaultQuality = 1;
+#else
+const int kDefaultQuality = 0;
+#endif
+
+// A preset's sound without its QUALITY: LO / HI is the device's choice, not the sound's (a project keeps its own).
+std::string withoutQuality(const std::string& st)
+{
+    std::string out;
+    size_t a = 0;
+    while (a < st.size())
+    {
+        size_t b = st.find(';', a);
+        if (b == std::string::npos) b = st.size();
+        if (st.compare(a, 8, "quality=") != 0) { if (!out.empty()) out += ';'; out.append(st, a, b - a); }
+        a = b + 1;
+    }
+    return out;
+}
 
 mpc::PluginInfo makeInfo()
 {
@@ -111,6 +132,7 @@ public:
                          : (s.flags & kFloat)  ? mpc::floatParam(s.key, s.name, s.min, s.max, s.def, "", 2)
                                                : mpc::intParam(s.key, s.name, (int)s.min, (int)s.max, (int)s.def);
             p.automatable = !(s.flags & kNoAuto);
+            if (i == 0) p.def = (float)kDefaultQuality;
             addParam(p);
         }
         const size_t n = (size_t)kNumParams;
@@ -130,6 +152,7 @@ public:
         pthread_mutexattr_destroy(&ma);
 
         inst_ = ca72_create();
+        if (inst_ && kDefaultQuality) ca72_set_param(inst_, "quality", "1");   // Gen2 (arm64) starts in HI
         for (int i = 0; i < kFactory; ++i) addProgram(g_factory[i].name, {});
         for (int i = 0; i < kFavSlots; ++i) addProgram("", {});
         // (Not mpc::contentPath(): a function-local static std::string segfaults at dlclose.)
@@ -191,6 +214,7 @@ public:
         if (index < 0 || index >= kNumParams || !inst_) return;
         if (t_pushing == index) return;          // the host echoing what the worker just told it
         const PSpec& s = g_pspecs[index];
+        if (index == kPitchWheel) { pitchWheel(plain); return; }
         if (s.flags & kLocal) { localChanged(index, plain); return; }
         if (s.flags & kReadOnly) return;         // the engine's readouts
         hostAt_[index].store(nowMs());
@@ -265,10 +289,10 @@ public:
     void programPicked(int prog)
     {
         if (prog < 0 || prog >= kFactory + kFavSlots || nowMs() < ignoreProgUntil_.load()) return;
-        if (prog < kFactory) { applyState(g_factory[prog].state, false); return; }
+        if (prog < kFactory) { applyState(g_factory[prog].state, false); return; }   // (the factory table has no quality)
         std::string st;
         { std::lock_guard<std::mutex> g(favMu_); if (favs_[(size_t)(prog - kFactory)].used) st = favs_[(size_t)(prog - kFactory)].state; }
-        if (!st.empty()) applyState(st);
+        if (!st.empty()) applyState(withoutQuality(st), false);
     }
 
     std::atomic<bool> loading_{false};   // set around an MPC chunk load (wrapped effSetChunk)
@@ -281,6 +305,16 @@ private:
         ~Lock() { pthread_mutex_unlock(&p_->lock_); }
         Model72Plugin* p_;
     };
+
+    // The OUTPUT tab's pitch wheel (-1..1): a MIDI pitch bend to the engine (BEND RANGE applies), as a wheel on a keyboard would send.
+    void pitchWheel(float v)
+    {
+        v = std::min(std::max(v, -1.0f), 1.0f);
+        const int b = std::min(16383, std::max(0, 8192 + (int)std::lround(v * (v < 0 ? 8192.0f : 8191.0f))));
+        const uint8_t m[3] = {0xE0, (uint8_t)(b & 0x7F), (uint8_t)(b >> 7)};
+        Lock l(this);
+        ca72_midi(inst_, m, 3);
+    }
 
     void sendMidi(const mpc::MidiEvent& e)
     {

diff --git a/tools/gen_sdk_params.py b/tools/gen_sdk_params.py
@@ -13,7 +13,8 @@ lock = [l.strip() for l in open(LOCKF) if l.strip()]
 KB_CHARS = "1234567890QWERTYUIOPASDFGHJKLZXCVBNM-"
 KB_KEYS = [("kb_" + ("dash" if c == "-" else c.lower()), "Key " + c) for c in KB_CHARS] + \
           [("kb_space", "Key Space"), ("kb_bksp", "Key Delete"), ("kb_shift", "Key Shift"), ("kb_cancel", "Key Cancel"), ("kb_save", "Key Save")]
-APPENDED = [("fav_add", "+ Preset"), ("fav_del", "- Preset"), ("fav_name", "Preset Name"), ("kb_open", "Keyboard")] + KB_KEYS
+APPENDED = [("fav_add", "+ Preset"), ("fav_del", "- Preset"), ("fav_name", "Preset Name"), ("kb_open", "Keyboard")] + KB_KEYS + \
+           [("pitch_wheel", "Pitch Wheel")]   # 2.0: the OUTPUT tab's pitch wheel (1.0.1 drew it, had no control), -1..1 -> MIDI pitch bend
 FAV_SLOTS = 64
 FAV_NAME_MAX = 20
 
@@ -53,10 +54,11 @@ for i, p in enumerate(P):
         fl |= FL["kPushed"] | FL["kReadOnly"] | FL["kNoAuto"]
     rows.append("    {%s, %s, %s, %s, %s, %d, %s, %d}," % (json.dumps(k), json.dumps(p["name"]), F(lo), F(hi), F(d), fl, ch, n))
 for k, name in APPENDED:
-    fl, hi = FL["kLocal"] | FL["kMomentary"] | FL["kNoAuto"], 1
+    fl, lo, hi = FL["kLocal"] | FL["kMomentary"] | FL["kNoAuto"], 0, 1
     if k == "fav_name": fl, hi = FL["kLocal"] | FL["kText"] | FL["kNoAuto"], 1023
     elif k == "kb_open": fl = FL["kLocal"] | FL["kNoAuto"]
-    rows.append("    {%s, %s, 0.0f, %s, 0.0f, %d, nullptr, 0}," % (json.dumps(k), json.dumps(name), F(hi), fl))
+    elif k == "pitch_wheel": fl, lo = FL["kLocal"] | FL["kFloat"], -1
+    rows.append("    {%s, %s, %s, %s, 0.0f, %d, nullptr, 0}," % (json.dumps(k), json.dumps(name), F(lo), F(hi), fl))
 idx = {k: i for i, k in enumerate(keys)}
 out += ["", "static const PSpec g_pspecs[] = {"] + rows + ["};",
         "static const int kNumParams = %d;" % len(keys),
@@ -65,6 +67,7 @@ out += ["", "static const PSpec g_pspecs[] = {"] + rows + ["};",
         "static const int kFavAdd = %d, kFavDel = %d, kFavName = %d, kKbOpen = %d, kKbFirst = %d, kKbCount = %d;" % (
             idx["fav_add"], idx["fav_del"], idx["fav_name"], idx["kb_open"], idx[KB_KEYS[0][0]], len(KB_KEYS)),
         "static const int kFavSlots = %d, kFavNameMax = %d;" % (FAV_SLOTS, FAV_NAME_MAX),
+        "static const int kPitchWheel = %d;" % idx["pitch_wheel"],
         "static const char kKbChars[] = %s;   // the character keys from kKbFirst (then space, delete, shift, cancel, save)" % json.dumps(KB_CHARS), ""]
 open(os.path.join(ROOT, "src/params_gen.h"), "w").write("\n".join(out))
 
@@ -76,6 +79,7 @@ po = ["/* generated by tools/gen_sdk_params.py from vst/presets.json: do not edi
 for pr in PR:
     kv = []
     for k, v in pr["values"].items():
+        if k == "quality": continue   # QUALITY is not part of a preset (LO / HI is the device's choice)
         if "options" in byk[k]: v = byk[k]["options"].index(v)
         kv.append("%s=%s" % (k, v))
     po.append("    {%s, %s}," % (json.dumps(pr["name"]), json.dumps(";".join(kv))))

diff --git a/tools/make_tui.py b/tools/make_tui.py
@@ -234,7 +234,7 @@ QBLOCKS = {
         ["drive", "auto_gain", "volume", "a440"],                       # OUTPUT
         ["mode", "voices", "entropy", "quality"],                       # VOICES
         ["note_priority", "retrigger", "glide_on", "decay_on"],         # keyboard
-        ["midi_bend_range", "mod_wheel"],                               # CONTROLLER
+        ["midi_bend_range", "pitch_wheel", "mod_wheel"],                # CONTROLLER
     ]],
     "STEREO": [[
         ["spread", "inner", "double"],
@@ -352,6 +352,10 @@ def main():
         shutil.rmtree(OUT)
     os.makedirs(OUT)
     order, tabs = parse_layout()
+    # 2.0: the pitch wheel, painted on OUTPUT since 1.0 but without a control. Same size as the MOD wheel, 126 px to its left; its strip
+    # is the MOD wheel's (its middle frame is the painted centre detent), -1..1 over the frames.
+    tabs["OUTPUT"]["items"].append(("slider_v", dict(cx="1049", cy="451", w="84", h="310", key="pitch_wheel", strip="art/mod_wheel.png",
+                                                     frames="48", ns="0", vs="0")))
     pages, used = [], set()
     for fn, name in enumerate(order):
         spec = tabs[name]

diff --git a/src/params_gen.h b/src/params_gen.h
@@ -154,10 +154,12 @@ static const PSpec g_pspecs[] = {
     {"kb_shift", "Key Shift", 0.0f, 1.0f, 0.0f, 145, nullptr, 0},
     {"kb_cancel", "Key Cancel", 0.0f, 1.0f, 0.0f, 145, nullptr, 0},
     {"kb_save", "Key Save", 0.0f, 1.0f, 0.0f, 145, nullptr, 0},
+    {"pitch_wheel", "Pitch Wheel", -1.0f, 1.0f, 0.0f, 20, nullptr, 0},
 };
-static const int kNumParams = 118;
+static const int kNumParams = 119;
 static const int kNumEngineParams = 72;   // 0 .. this - 1: the engine's keys (the 1.0.1 table)
 static const int kAutoDb = 52, kDot1 = 60, kDots = 10;
 static const int kFavAdd = 72, kFavDel = 73, kFavName = 74, kKbOpen = 75, kKbFirst = 76, kKbCount = 42;
 static const int kFavSlots = 64, kFavNameMax = 20;
+static const int kPitchWheel = 118;
 static const char kKbChars[] = "1234567890QWERTYUIOPASDFGHJKLZXCVBNM-";   // the character keys from kKbFirst (then space, delete, shift, cancel, save)
